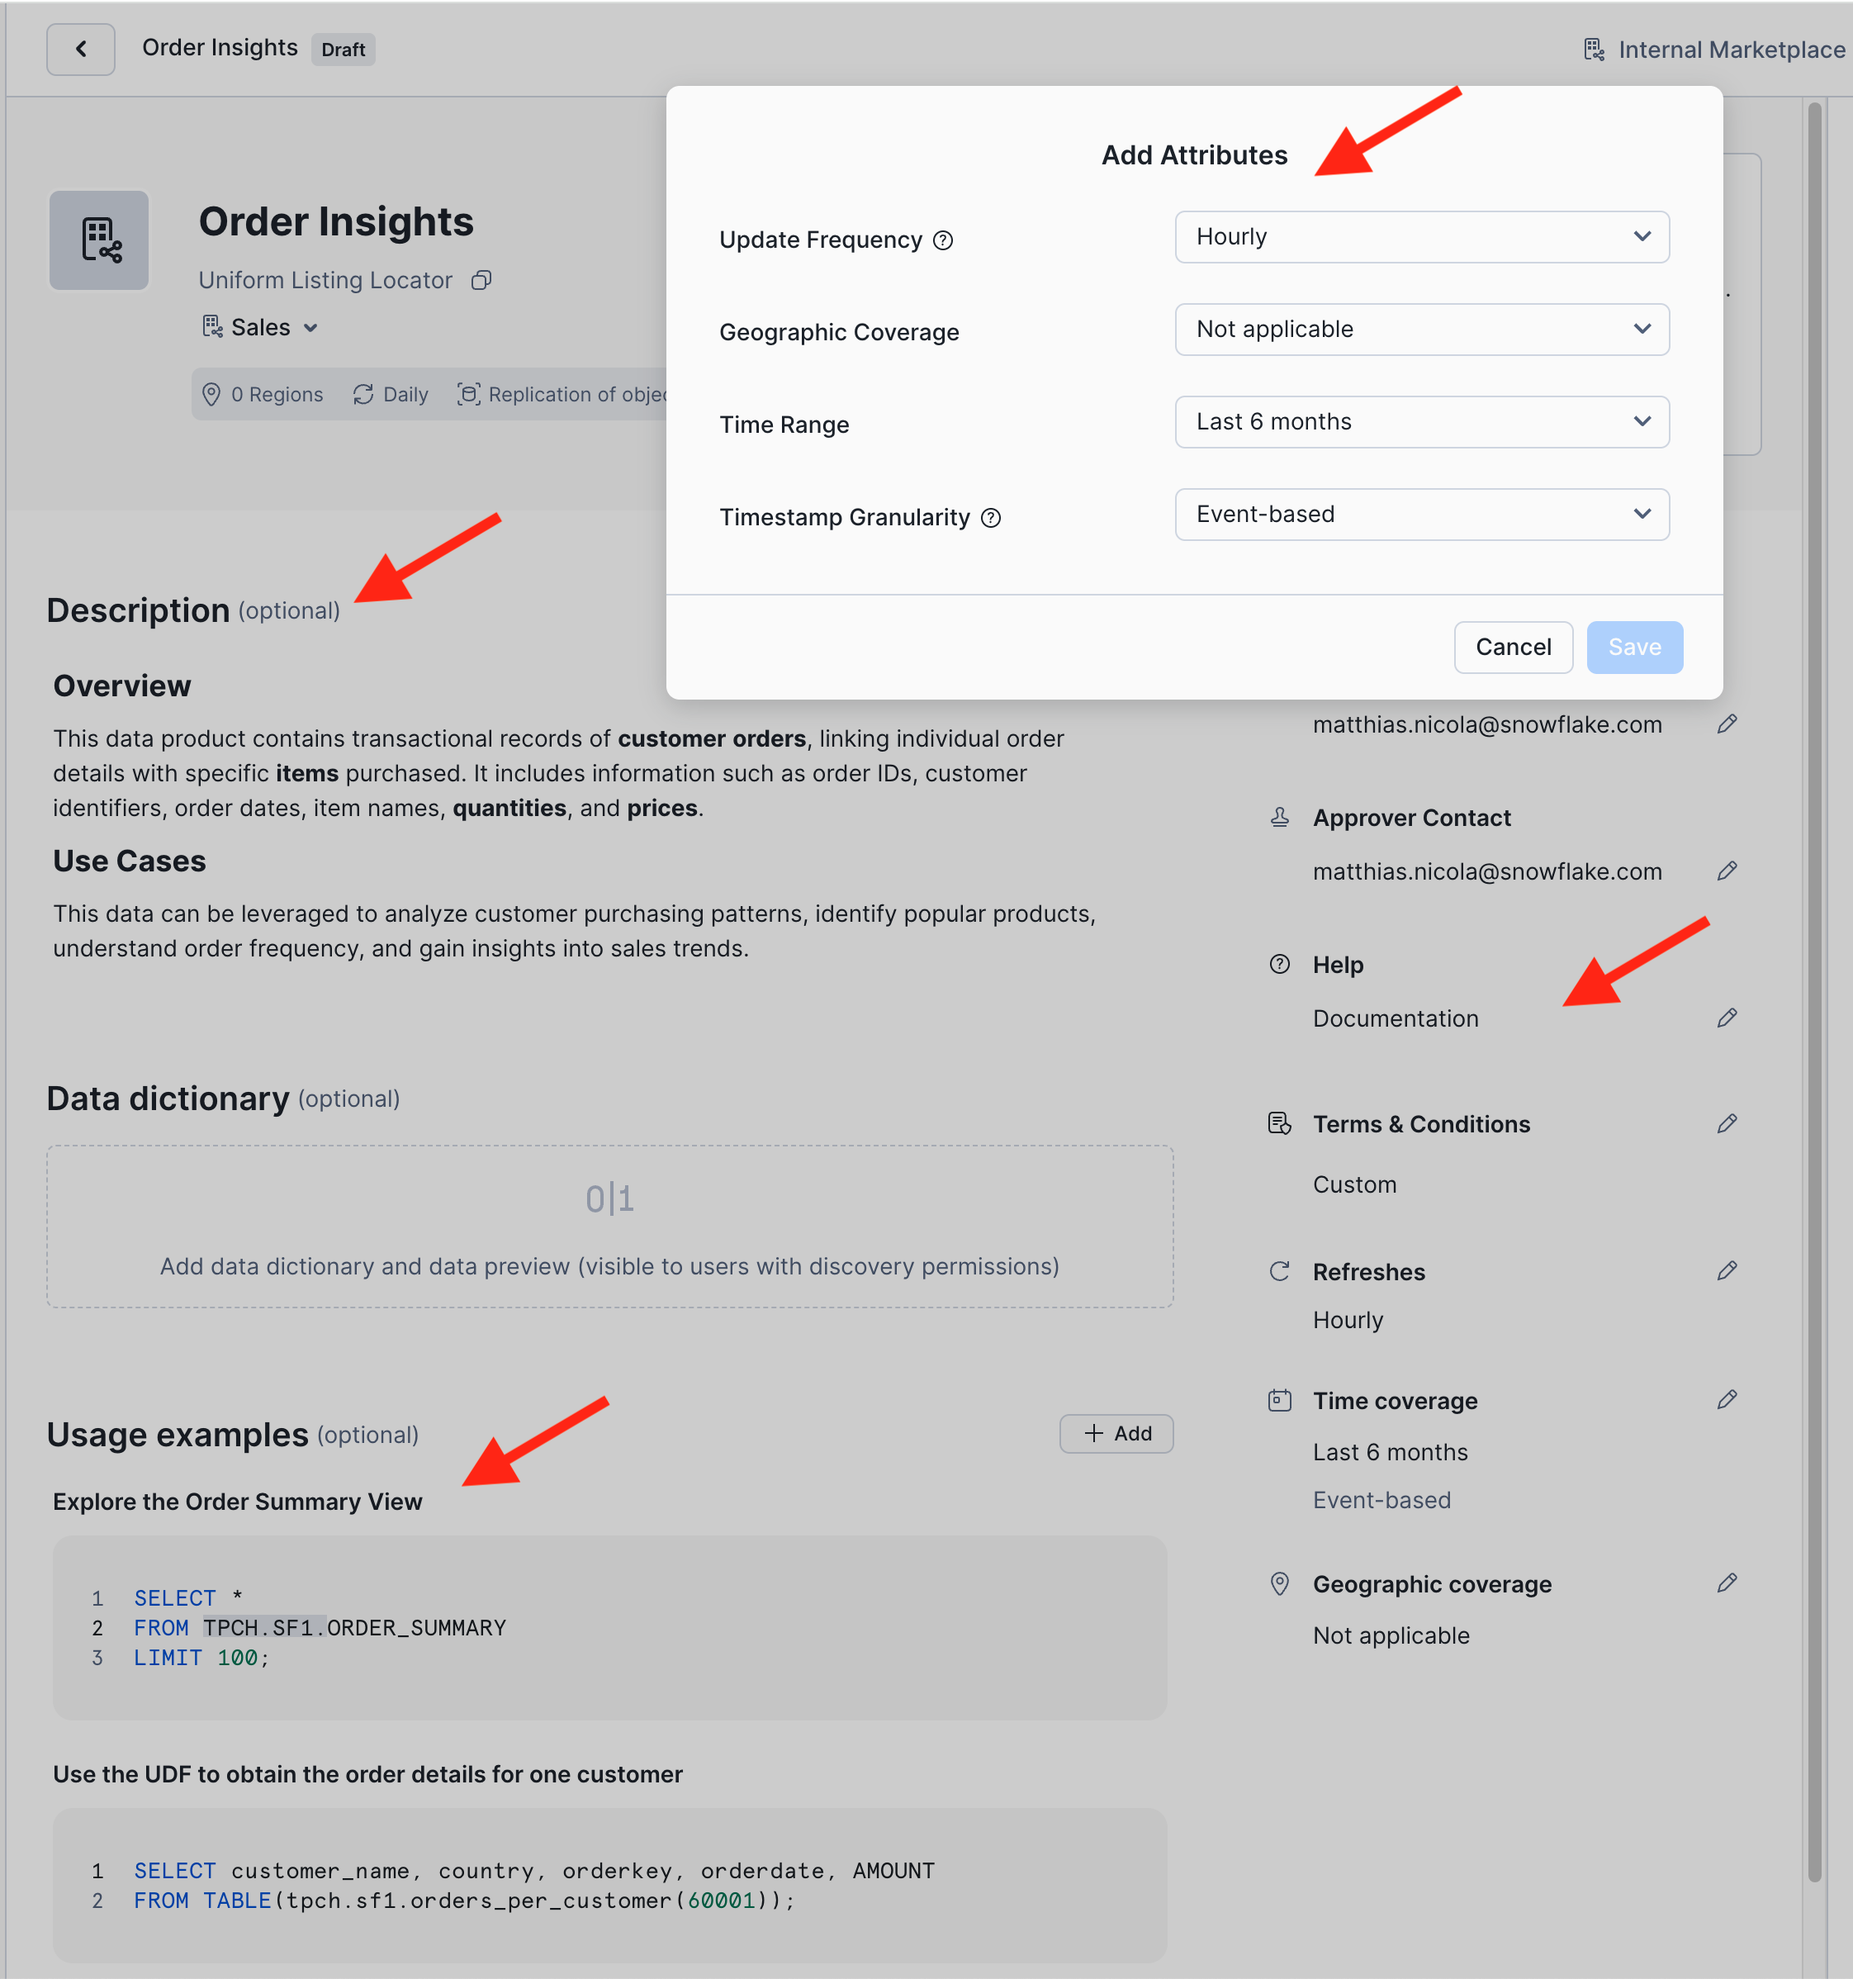
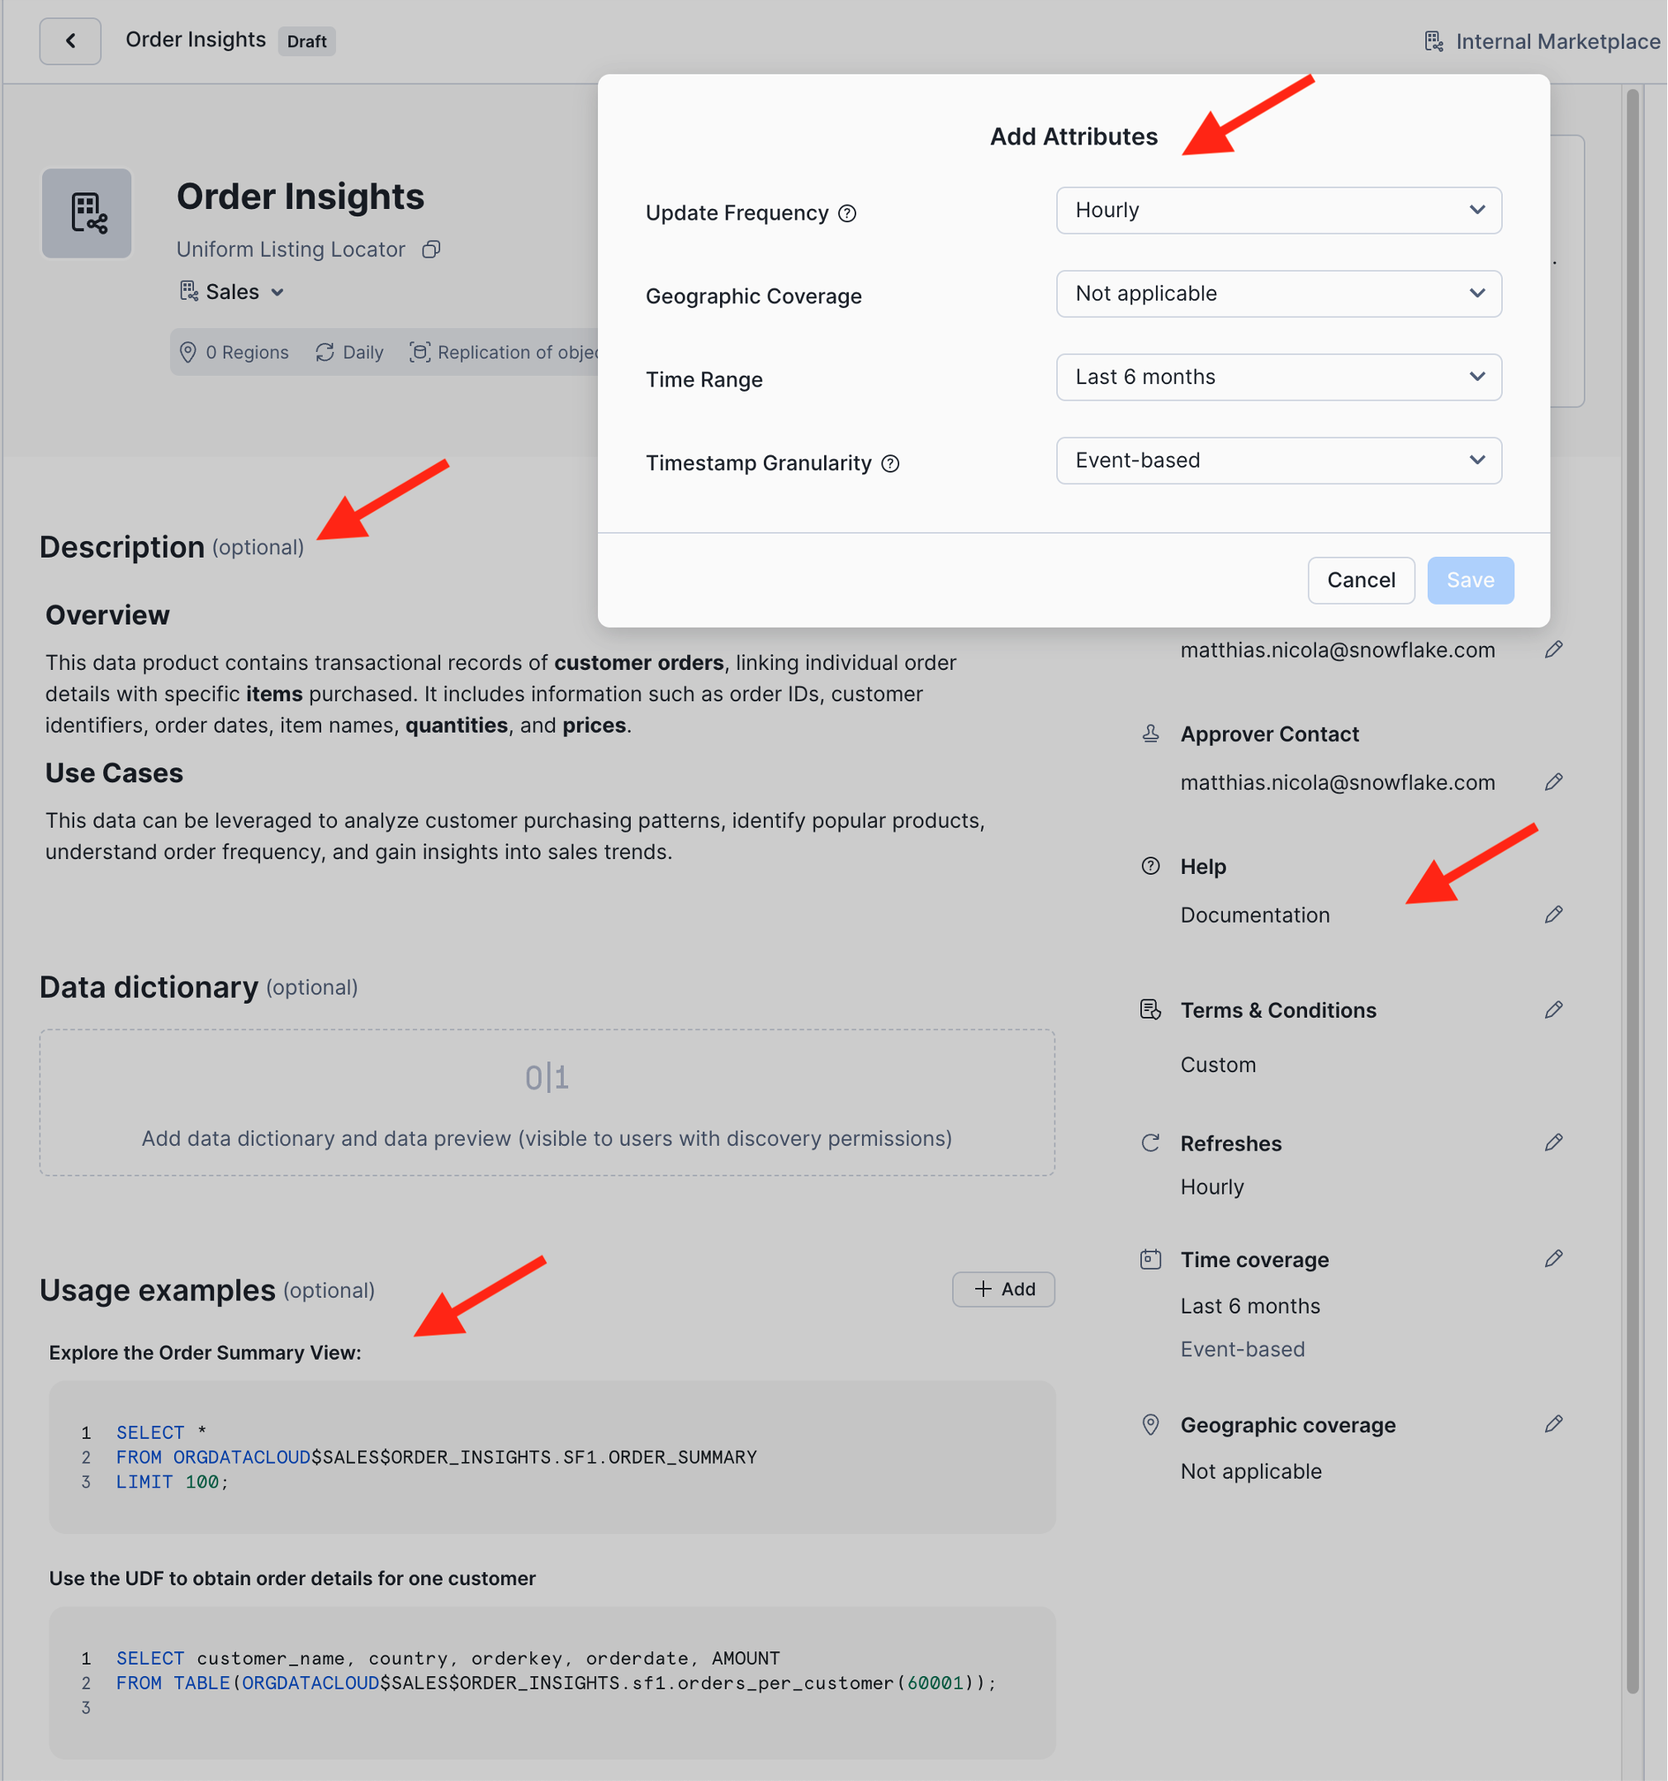
Incorporated changes from testers, added newer screenshots

diff --git a/site/sfguides/src/intra_company_data_sharing_with_the_snowflake_internal_marketplace/intra_company_data_sharing_with_the_snowflake_internal_marketplace.md b/site/sfguides/src/intra_company_data_sharing_with_the_snowflake_internal_marketplace/intra_company_data_sharing_with_the_snowflake_internal_marketplace.md
@@ -47,11 +47,11 @@ Duration: 15
 
 The setup instructions for this lab describe all the steps for you to create the 3 accounts, domain profiles, and roles shown in the diagram below.
 
-The internal marketplace exists by default. It does not need to be created. But, you will configure it with provider profiles for the different business units via the [organization account](https://docs.snowflake.com/en/user-guide/organization-accounts). The organization account is a recent Snowflake capability to optionally monitor and manage a set of a regular accounts.
+The internal marketplace exists by default. It does not need to be created. But, you will configure it with provider profiles for the different business units via the [organization account](https://docs.snowflake.com/en/user-guide/organization-accounts). The organization account is a recent Snowflake capability to optionally monitor and manage a set of regular accounts.
 
 ![LabScenario](assets/DemoScenario-and-Accounts.png)
 
-The setup has 6 steps:
+The setup follows these steps:
 - Step 1: Create a Snowflake trial account in a region of your choice
 - Step 2: Configure the first account and create two more accounts _in the same org_
 - Step 3: Configure the second account
@@ -68,20 +68,10 @@ For Steps 2 through 7 you can download [scripts here](https://github.com/Snowfla
 
 Sign up for a trial account [here](https://signup.snowflake.com/)
 
-- Choose Cloud and Region, we recommend choosing one of the regions below, where this quickstart has been tested.
-  - Microsoft Azure
-    - West Europe (Netherlands)
-    - UK South (London)
-    - East US 2 (Virginia)
-    - Japan East (Tokyo)
-  - Amazon Web Services
-    - EU (Frankfurt)
-    - US West (Oregon)
-    - EU (Ireland)
-    - Asia Pacific (Tokyo)
-  - Google Cloud Platform
-    - Europe West (London)
-    - US Central (Iowa)
+- Choose a Cloud and Region. We recommend choosing one of these regions where this Quickstart and the very latest features have been tested:
+  - **Microsoft Azure:** West Europe (Netherlands), UK South (London), East US 2 (Virginia), Japan East (Tokyo)
+  - **Amazon Web Services**: EU Central (Frankfurt), US West (Oregon), EU (Ireland), Asia Pacific (Tokyo)
+  - **Google Cloud Platform**: Europe West (London), US Central (Iowa)
 
 - Choose **Enterprise Edition** or higher. (Standard Edition does not support the Internal Marketplace)
 - Activate the account with an admin user name such as `admin`
@@ -203,7 +193,7 @@ SHOW ACCOUNTS;
 
 - Make a note of your account names, URLs, and passwords!
 - Copy or bookmark the account URLs returned by `SHOW ACCOUNTS'. 
-- When you click on one these URLs you are automatically directed to the respective account for login.
+- When you click on one of these URLs you are automatically directed to the respective account for login.
 
 
 
@@ -310,7 +300,7 @@ Continue working as the `org_admin` user in your Organization Account `HOL_ORG_A
 
 Duration: 30
 
-In this section you will work in `HOL_ACCOUNT1` create and publish an [organizational listing](https://docs.snowflake.com/en/user-guide/collaboration/listings/organizational/org-listing-about). 
+In this section you will work in `HOL_ACCOUNT1` to create and publish an [organizational listing](https://docs.snowflake.com/en/user-guide/collaboration/listings/organizational/org-listing-about). 
 
 The publishing flow consists of 5 steps:
 
@@ -322,26 +312,27 @@ The publishing flow consists of 5 steps:
 
 Login in to `HOL_ACCOUNT1` as user `sales_admin`.
 
-### Publishing Flow Step 1/5: Listing Title and Ownership
+### Publishing Flow (Step 1 of 5): Listing Title and Ownership
 
-1. Navigate to the **Catalog** -> **Internal Marketplace**
-2. Use the **Provider** filter to see data products from a specific domain
-3. Click the blue **+Create Listing** button in the top right. Select "Internal Marketplace".
-    - Note: You can create a listing also from the **Data Sharing** -> **Provider Studio** menu on the left.
+1. Navigate to the Provider Studio and click the blue **+Create Listing** button in the top right. 
+2. Select **"Internal Marketplace"**.
 
-![IM](assets/CreateListingFromIM.png)
+![IM](assets/ProviderStudio.png)
 
-2. Click on **“Untitled Listing”** and give your data product a meaningful title. Let's use **Order Insights** in this lab. Click "Save".
+3. Click on **“Untitled Listing”** and give your data product a meaningful title. Let's use **Order Insights** in this lab. Click "Save".
+
+> aside positive
+> IMPORTANT: some code later in this lab will reference the listing by the name **Order Insights**. 
 
 ![](assets/Publish01-Title.png)
 
-3. Click on the **+Profile** button and select the **Sales** profile as the owner of this data product. 
+4. Click on the **+Profile** button and select the **Sales** profile as the owner of this data product. 
 
 ![](assets/Publish02-Profile.png)
 
 - When you save the profile selection, note that the contact email from the Sales profile is automatically entered as the default support contact for this listing. You can change this on a per listing basis if you want. 
 
-### Publishing Flow Step 2/5: Selecting Data Objects to Share
+### Publishing Flow Step (2 of 5): Selecting Data Objects to Share
 
 Now let's select the data objects that we want to share in this data product. 
 - Click on the blue **Add Data Product** button to open the object explorer. 
@@ -350,7 +341,7 @@ Now let's select the data objects that we want to share in this data product.
 
 ![](assets/Publish03-ObjectSelection.png)
 
-### Publishing Flow Step 3/5: Configure Access Control and the Approval Process
+### Publishing Flow (Step 3 of 5): Configure Access Control and the Approval Process
 
 Next you set the access control for the data product. Click on the gray **+Access Control** button. 
 - *Discovery* determines who can see the listing and all its metadata in the internal marketplace without having access to the shared data objects.
@@ -375,7 +366,7 @@ So lets (1) **Review** the settings, (2) Change the replication interval to dail
 
 ![](assets/Publish06-LAF.png)
 
-### Publishing Flow Step 4/5: Add Optional Metadata and SLOs
+### Publishing Flow (Step 4 of 5): Add Optional Metadata and SLOs
 Data products should be understandable and trustworthy for data consumers so let's add additional metadata to describe the product (see screenshot below).
 
 - Add a business **description** to document your listing.
@@ -391,14 +382,11 @@ Data products should be understandable and trustworthy for data consumers so let
   
   ![](assets/Publish07-MetaData.png)
 
-> aside positive 
-> Uniform Listing Locator (ULL): One of the concepts that are important to notice is the Uniform Listing Locator (or ULL) that can be seen under the Data Product Title. This is a link to the data product that is available directly to any role that has been granted access to the data listing, and can be queried directly.
->  
-> The complete ULL is formed by three elements delimited by the symbol ‘$’. The first element is the provider’s organization name, the second element is the provider profile, and the third element is the listing name. The ULL cannot be changed after the listing is published. Although it has three parts, the ULL is treated as a single name in queries.
 
-- Add at least two **Usage examples** such as the following two queries..
-  - Note these queries reference the objects in the data product via the Uniform Listing Locator (ULL).
-  - The ULL contains the domain profile name and listing name.
+- Add at least two **Usage examples** such as the following two queries.
+  - Note: Queries reference objects in a data product via the [Uniform Listing Locator (ULL)](https://docs.snowflake.com/en/user-guide/collaboration/listings/organizational/org-listing-query).
+  - The ULL of your **Order Insights** listing is `ORGDATACLOUD$SALES$ORDER_INSIGHTS`.
+  - The ULL contains the domain profile name and listing name. Schema name and object name can be appended to reference objects within the listing, as in the two queries below.
   - The ULL can be copied from the top of the listing page, right under the listing name.
   
   
@@ -425,11 +413,15 @@ Data products should be understandable and trustworthy for data consumers so let
 
 ![](assets/Publish08-DataDictionary.png)
 
-### Publishing Flow  Step 5/5: Publish your listing to the internal marketplace
+### Publishing Flow (Step 5 of 5): Publish your listing to the internal marketplace
 
 Click the blue **Publish** button in the top right corner.
 
-Your data product is now live! You can see it when you navigate to the Internal Marketplace:
+Your data product is now live! You can see it when you navigate to the Internal Marketplace.
+
+- In the old UI, choose **Data Products** in the menu on the left, then **Marketplace**, then **Internal Marketplace** at the top.
+- In the new UI, choose **Catalog** in the menu on the left, then **Internal Marketplace** (see below).
+- Use the *Provider* filter to show listings for specific domains only.
 
 ![](assets/Publish10-Done-NewUI.png)
 
@@ -465,7 +457,7 @@ Let's switch back to the perspective of the data product owner to review and gra
 - Navigate to the **Provider Studio** as shown in the screenshot below and open the tab **Internal Requests**.
 - Click on each of the two requests to review the details and use the green **Grant** button to approve.
 
-![](assets/RAW02-newUI.png)
+![](assets/RAW02.png)
 
 Switch from **Needs Review** to **Resolved Requests** to see the history of requests. 
 
@@ -479,7 +471,7 @@ Switch from **Needs Review** to **Resolved Requests** to see the history of requ
 
 Duration: 10
 
-Now that access has been granted let's go back to the consumer roles:
+Now that access has been granted, let's go back to the consumer roles:
 
 - In a separate browser tab log into `HOL_ACCOUNT2` as the `supply_chain_admin` user. *(Keep this tab alive for the rest of the lab.)*
 - In the Internal Marketplace open the **Order Insights** listing again
@@ -511,20 +503,21 @@ in `HOL_ACCOUNT1`
   SELECT customer_name, country, orderkey, orderdate, AMOUNT
   FROM TABLE(orders_per_customer(60001));
   ```
-- Note that customer 60001 lives in Kenya. But, he has now moved to Mozambique which requires the following update:
+- Note that customer 60001 lives in Kenya. But, the customer has now moved to Mozambique, which requires the following update to the customer's nationkey:
 
   ```sql
-  -- Customer 60001 moves from Kenya to MOZAMBIQUE !
+  -- Customer 60001 moves from Kenya to Mozambique !
   UPDATE customer SET c_nationkey = 16 WHERE c_custkey = 60001;
   ```
 - Now switch to your browser tab where you are logged into `HOL_ACCOUNT2` as `supply_chain_admin`. In the worksheet "**Order Insights - Examples**" run the second sample query again:
 
   ```sql
-  // Use the UDF to obtain the order details for one customer
+  -- Use the UDF to obtain the order details for one customer
+
   SELECT customer_name, country, orderkey, orderdate, AMOUNT
   FROM TABLE(ORGDATACLOUD$SALES$ORDER_INSIGHTS.sf1.orders_per_customer(60001));
   ```
-- Note that the updated country information, which was inferred from the updated nationkey, is instantly visible to data consumers!
+- Note that the updated country information,  inferred from the updated nationkey, is instantly visible to data consumers!
 - Other data product changes such as adding a column to a table would also be immediately reflected on the consumer side. 
 - **Best practice:** inform your data consumers of structural data product changes ahead of time.  In case of a breaking change consider creating a new listing "v2.0" and give data consumers time to migrate from the old to the new listing.
 
@@ -652,7 +645,7 @@ In this section we will review further capabilities for managing and monitoring 
 - Log into account `HOL_ACCOUNT1` as the `sales_admin` user
 - Navigate to the Provider Studio and open the **Order Insights** listing
 
-    ![](assets/ManageListings-01-newUI.png)
+    ![](assets/ManageListings-01.png)
 
 - In the top right, click on the Access definition of the listing.
 
@@ -684,6 +677,7 @@ As an organization admin you can query the [organization_usage.access_history](h
 
 ```sql
 use role globalorgadmin;
+use warehouse compute_wh;
 
 select q.account_name, 
     q.user_name, 
